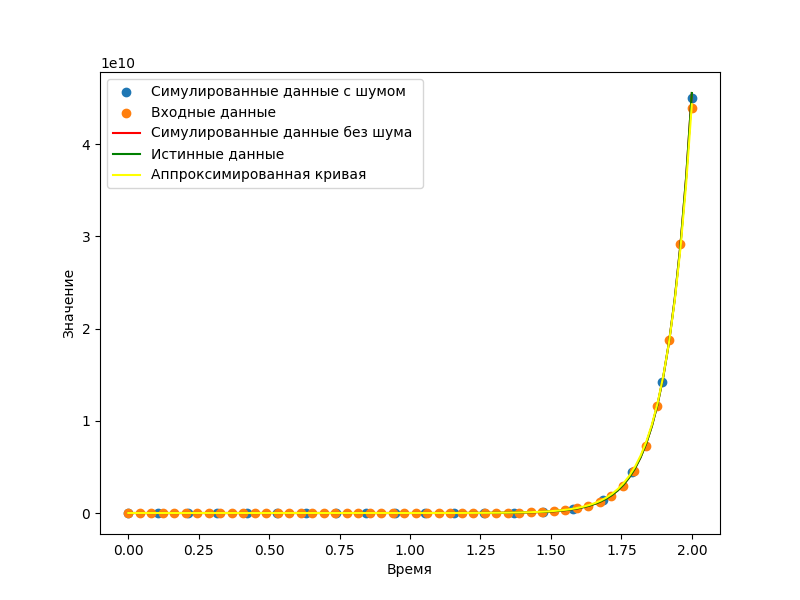
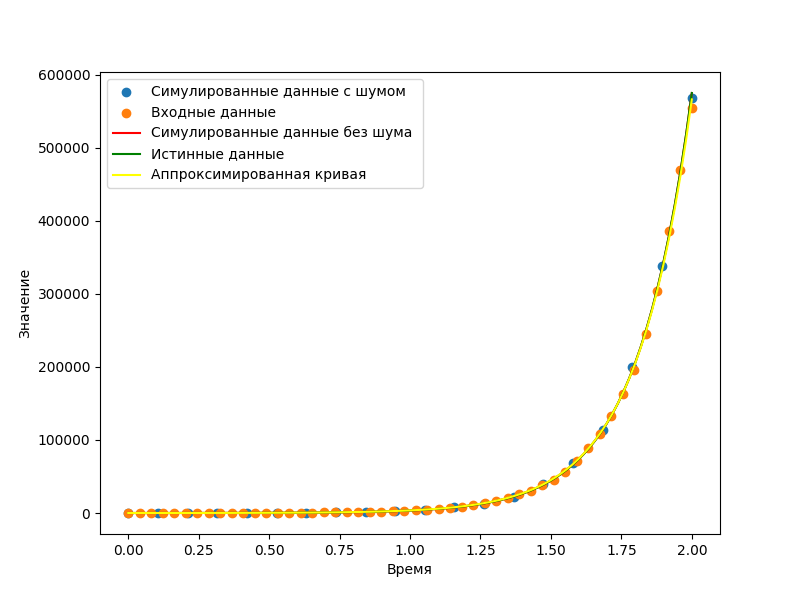
Add changes

diff --git a/README.md b/README.md
@@ -29,7 +29,7 @@ Output:
 ![output](output2.png)
 True parameters: [-1.5, 10]
 
-Fitted Parameters with noise: [-1.4634539   9.85688725]
+Fitted Parameters with noise: [-1.46345385  9.85688693]
 
 Fitted Parameters without noise:[-1.5 10. ]
 
@@ -59,7 +59,7 @@ Output:
 ![output](output5.png)
 True parameters: [2.5, -1]
 
-Fitted Parameters with noise: [ 2.50747361 -1.01369438]
+Fitted Parameters with noise: [ 2.50747358 -1.01369429]
 
 Fitted Parameters without noise:[ 2.5 -1. ]
 
@@ -69,7 +69,7 @@ Output:
 ![output](output6.png)
 True parameters: [2.5, -1]
 
-Fitted Parameters with noise: [ 2.48794889 -0.97420738]
+Fitted Parameters with noise: [ 2.48794885 -0.97420723]
 
 Fitted Parameters without noise:[ 2.5 -1. ]
 
@@ -77,28 +77,28 @@ Fitted Parameters without noise:[ 2.5 -1. ]
 Output:
 
 ![output](output7.png)
-True parameters: [11.12, 100]
+True parameters: [5.12, 100]
 
-Fitted Parameters with noise: [8.81192161e+00 9.00937408e+03]
+Fitted Parameters with noise: [ 5.13573328 98.36448288]
 
-Fitted Parameters without noise:[8.81159778e+00 8.89948827e+03]
+Fitted Parameters without noise:[  5.12 100.  ]
 
 # Test 8
 Output:
 
 ![output](output8.png)
-True parameters: [11.12, 100]
+True parameters: [5.12, 100]
 
-Fitted Parameters with noise: [11.20820053 83.69910032]
+Fitted Parameters with noise: [ 5.1740009  91.17320456]
 
-Fitted Parameters without noise:[ 11.12 100.  ]
+Fitted Parameters without noise:[  5.12 100.  ]
 
 # Test 9
 Output:
 
 ![output](output9.png)
-True parameters: [11.12, 100]
+True parameters: [5.12, 100]
 
-Fitted Parameters with noise: [ 10.80327047 187.15399477]
+Fitted Parameters with noise: [  5.06069761 110.13839553]
 
-Fitted Parameters without noise:[ 11.12 100.  ]
+Fitted Parameters without noise:[  5.12 100.  ]
